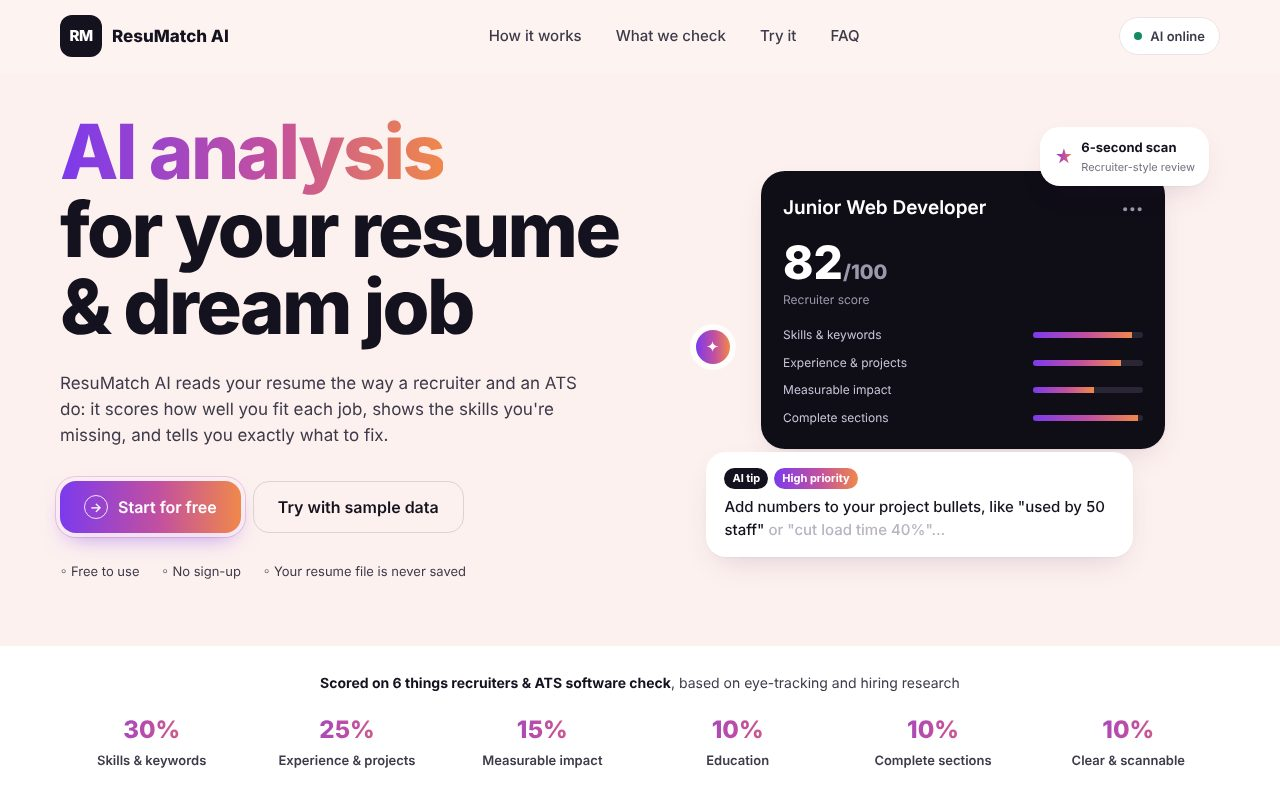
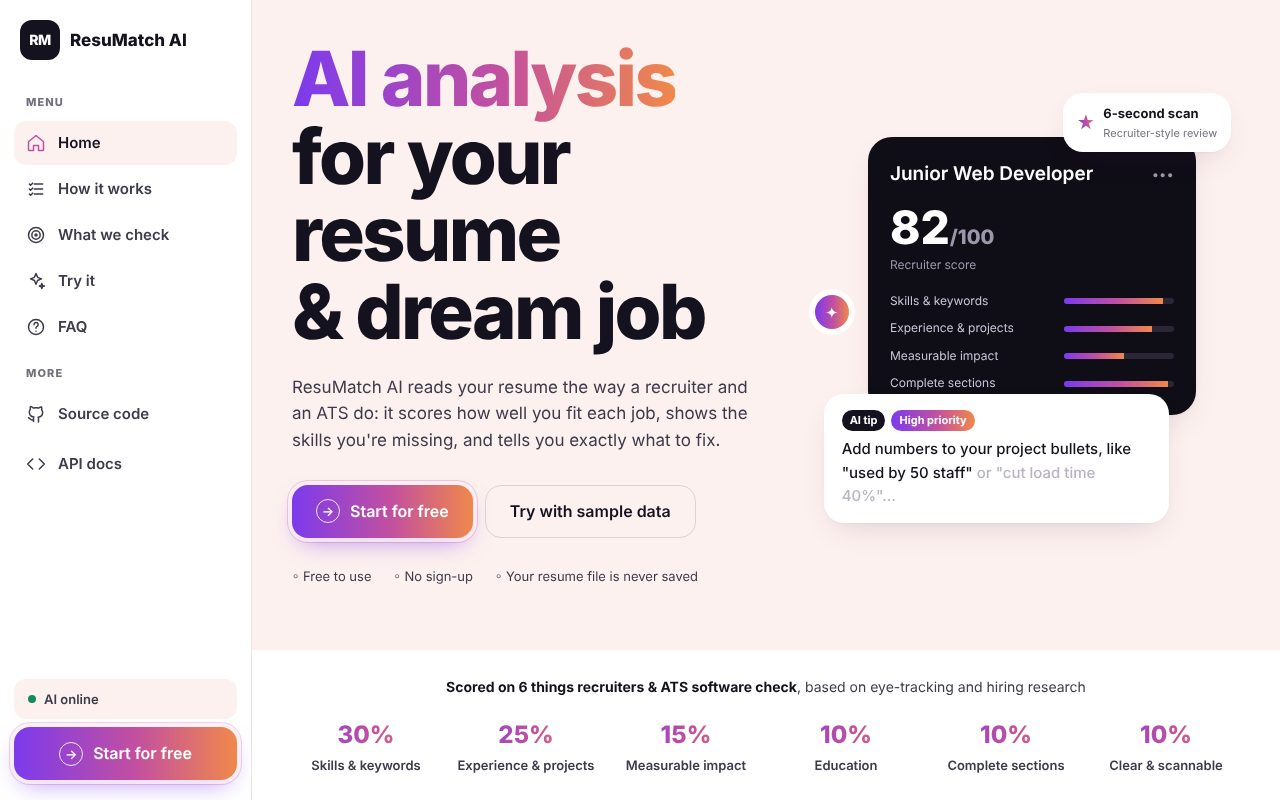
BantayPondo: phone-first menu and project cards; live demo + github links on homepage; refresh project screenshots
Claude-Session: https://claude.ai/code/session_01Py1rjXQRezDS2e9Ywq6cDs

diff --git a/bantaypondo/styles.css b/bantaypondo/styles.css
@@ -35,14 +35,40 @@ a { color: var(--blue); }
 .skip:focus { left: 12px; top: 12px; z-index: 99; background: #fff; padding: 8px 12px; }
 section { margin-block: 88px; }
 
-/* Nav */
-.nav { position: sticky; top: 0; z-index: 1000; background: rgba(255,255,255,.94); backdrop-filter: blur(6px); border-bottom: 1px solid var(--line); }
-.nav-in { display: flex; align-items: center; justify-content: space-between; height: 60px; gap: 16px; }
+/* Menu: sidebar on computers, top bar + slide-in drawer on phones */
+:root { --sb: 248px; }
 .brand { display: flex; align-items: center; gap: 10px; font: 600 18px var(--display); color: var(--ink); text-decoration: none; }
-.nav nav { display: flex; gap: 22px; }
-.nav nav a { color: var(--ink); text-decoration: none; font-size: 15px; }
-.nav nav a:hover { color: var(--blue); }
-@media (max-width: 720px) { .nav nav { display: none; } }
+.ic { width: 20px; height: 20px; flex: none; fill: none; stroke: currentColor; stroke-width: 1.8; stroke-linecap: round; stroke-linejoin: round; }
+.sidebar { position: fixed; inset: 0 auto 0 0; z-index: 1100; width: var(--sb); background: var(--surface); border-right: 1px solid var(--line);
+           display: flex; flex-direction: column; gap: 2px; padding: 18px 12px; overflow-y: auto; transition: transform .25s ease; }
+.sb-head { display: flex; align-items: center; justify-content: space-between; padding: 0 6px 14px; }
+.sb-label { margin: 14px 12px 4px; font: 600 11px var(--display); letter-spacing: .1em; text-transform: uppercase; color: var(--muted); }
+.snav { display: grid; gap: 2px; }
+.snav a, .sb-link { display: flex; align-items: center; gap: 12px; min-height: 44px; padding: 0 12px; border-radius: var(--radius-lg);
+                    color: var(--ink); text-decoration: none; font-size: 15px; }
+.snav a:hover, .sb-link:hover { background: var(--bg); }
+.snav a.active { background: var(--blue-soft); color: var(--blue); font-weight: 600; }
+.sb-link { color: var(--muted); font-size: 14px; }
+.sb-note { margin: auto 6px 0; padding: 12px; border-radius: var(--radius-lg); background: var(--bg); font-size: 13px; color: var(--muted); }
+.icon-btn { width: 44px; height: 44px; display: grid; place-items: center; flex: none; border: 1px solid var(--line); border-radius: 10px;
+            background: var(--surface); color: var(--ink); cursor: pointer; padding: 0; }
+.sb-close, .topbar { display: none; }
+.scrim { position: fixed; inset: 0; z-index: 1090; background: rgba(29, 39, 56, .45); opacity: 0; pointer-events: none; transition: opacity .25s; }
+main, .foot { margin-left: var(--sb); }
+html { scroll-padding-top: calc(var(--nav-h, 0px) + 12px); }
+
+@media (max-width: 1023px) {
+  .sidebar { transform: translateX(-102%); width: min(300px, 86vw); box-shadow: 0 20px 60px -10px rgba(29, 39, 56, .35); }
+  body.menu-open .sidebar { transform: none; }
+  body.menu-open .scrim { opacity: 1; pointer-events: auto; }
+  body.menu-open { overflow: hidden; }
+  .sb-close { display: grid; }
+  main, .foot { margin-left: 0; }
+  .topbar { position: sticky; top: 0; z-index: 1050; display: flex; align-items: center; gap: 12px; height: 62px; padding: 0 14px;
+            background: rgba(255, 255, 255, .95); backdrop-filter: blur(6px); border-bottom: 1px solid var(--line); }
+  .topbar .brand { flex: 1; font-size: 17px; }
+}
+@media (prefers-reduced-motion: reduce) { .sidebar, .scrim { transition: none; } }
 
 /* Hero (template: centered title over a light band, cards overlap the band edge) */
 .hero { margin: 0; padding: 88px 0 140px; background: var(--surface); }
@@ -247,3 +273,30 @@ dialog dd { margin: 0; }
 .info-pop .team p { font-size: 14px; }
 @media (max-width: 640px) { .info-pop { position: fixed; top: 80px; left: 4vw; transform: none; } .info-pop .team { grid-template-columns: 1fr; } }
 @media (prefers-reduced-motion: reduce) { .info-pop { transition: none; } }
+
+
+/* ---------- Phones ---------- */
+@media (max-width: 700px) {
+  .wrap { width: calc(100% - 32px); }
+  /* inputs at 16px stop iPhones from zooming in */
+  input, select, textarea, .filters input[type=search], .filters select { font-size: 16px; }
+  .filters { flex-direction: column; align-items: stretch; }
+  .filters label { flex: 1 1 auto; }
+  .filters .chk { padding: 4px 0 0; min-height: 40px; }
+  /* Project table becomes a list of cards */
+  .table-wrap { background: none; box-shadow: none; overflow: visible; }
+  table, tbody, tr, td { display: block; width: 100%; }
+  thead { display: none; }
+  tbody tr { display: grid; grid-template-columns: auto 1fr; gap: 4px 12px; background: var(--surface); border-radius: var(--radius-lg);
+             box-shadow: var(--lift); padding: 14px; margin-bottom: 12px; }
+  tbody tr:hover { background: var(--surface); }
+  td { border: 0; padding: 0; min-width: 0 !important; }
+  td:first-child { grid-row: span 2; }
+  td.num { text-align: left; }
+  td[data-label]:not(:first-child):not(:nth-child(2))::before { content: attr(data-label); display: block; font: 600 11px var(--display);
+       letter-spacing: .06em; text-transform: uppercase; color: var(--muted); margin-top: 6px; }
+  td:nth-child(n+3) { grid-column: 2; font-size: 15px; }
+  .pname { min-width: 0; }
+  td.empty { grid-column: 1 / -1; }
+  .btn, .ask-form button, .hero-search button { min-height: 44px; }
+}

diff --git a/bantaypondo/index.html b/bantaypondo/index.html
@@ -9,26 +9,42 @@
 <link rel="preconnect" href="https://fonts.gstatic.com" crossorigin>
 <link href="https://fonts.googleapis.com/css2?family=Montserrat:wght@400;500;600;700&family=Source+Sans+3:wght@400;600&display=swap" rel="stylesheet">
 <link rel="stylesheet" href="vendor/leaflet/leaflet.css">
-<link rel="stylesheet" href="styles.css?v=9">
+<link rel="stylesheet" href="styles.css?v=10">
 <link rel="icon" href="logo.svg" type="image/svg+xml">
 </head>
 <body>
 <a class="skip" href="#explore">Skip to projects</a>
 
-<header class="nav">
-  <div class="wrap nav-in">
-    <a class="brand" href="#top" aria-label="BantayPondo home">
-      <img src="logo.svg" width="30" height="30" alt="">
-      BantayPondo
-    </a>
-    <nav aria-label="Main">
-      <a href="#how">How it works</a>
-      <a href="#explore">Projects</a>
-      <a href="#map">Map</a>
-      <a href="#ask">Ask</a>
-      <a href="#sources">Sources</a>
-    </nav>
+<!-- Sidebar menu: always visible on computers, slides in on phones -->
+<aside class="sidebar" id="sidebar" aria-label="Main menu">
+  <div class="sb-head">
+    <a class="brand" href="#top" aria-label="BantayPondo home"><img src="logo.svg" width="30" height="30" alt="">BantayPondo</a>
+    <button class="icon-btn sb-close" id="menuClose" type="button" aria-label="Close menu"><svg class="ic" viewBox="0 0 24 24" aria-hidden="true"><path d="M6 6l12 12M18 6 6 18"/></svg></button>
   </div>
+  <p class="sb-label">Explore</p>
+  <nav class="snav" aria-label="Main">
+    <a href="#top"><svg class="ic" viewBox="0 0 24 24" aria-hidden="true"><path d="M3 10.5 12 3l9 7.5V20a1 1 0 0 1-1 1h-5v-6H9v6H4a1 1 0 0 1-1-1z"/></svg>Home</a>
+    <a href="#how"><svg class="ic" viewBox="0 0 24 24" aria-hidden="true"><path d="M10 6h10M10 12h10M10 18h10M4 6l1.5 1.5L8 5M4 12l1.5 1.5L8 11M4 18l1.5 1.5L8 17"/></svg>How it works</a>
+    <a href="#checks"><svg class="ic" viewBox="0 0 24 24" aria-hidden="true"><path d="M5 21V4"/><path d="M5 4h12l-2 4 2 4H5"/></svg>The checks</a>
+    <a href="#explore"><svg class="ic" viewBox="0 0 24 24" aria-hidden="true"><rect x="3" y="4" width="18" height="16" rx="2"/><path d="M3 9h18M8 9v11"/></svg>Projects</a>
+    <a href="#map"><svg class="ic" viewBox="0 0 24 24" aria-hidden="true"><path d="M9 4 3 6v14l6-2 6 2 6-2V4l-6 2z"/><path d="M9 4v14M15 6v14"/></svg>Map</a>
+    <a href="#contractors"><svg class="ic" viewBox="0 0 24 24" aria-hidden="true"><path d="M3 21h18M5 21V9l7-5 7 5v12M9 21v-6h6v6"/></svg>Contractors</a>
+    <a href="#ask"><svg class="ic" viewBox="0 0 24 24" aria-hidden="true"><path d="M21 12a8 8 0 0 1-11.6 7.1L4 20l1-4.6A8 8 0 1 1 21 12z"/><path d="M8.5 11h7M8.5 14h4"/></svg>Ask BantayPondo</a>
+    <a href="#sources"><svg class="ic" viewBox="0 0 24 24" aria-hidden="true"><path d="M4 6c0-1.7 3.6-3 8-3s8 1.3 8 3-3.6 3-8 3-8-1.3-8-3z"/><path d="M4 6v6c0 1.7 3.6 3 8 3s8-1.3 8-3V6"/><path d="M4 12v6c0 1.7 3.6 3 8 3s8-1.3 8-3v-6"/></svg>Sources</a>
+  </nav>
+  <p class="sb-label">Links</p>
+  <a class="sb-link" href="https://transparency.dpwh.gov.ph/" target="_blank" rel="noopener"><svg class="ic" viewBox="0 0 24 24" aria-hidden="true"><path d="M14 4h6v6M20 4l-9 9M18 14v5a1 1 0 0 1-1 1H5a1 1 0 0 1-1-1V7a1 1 0 0 1 1-1h5"/></svg>DPWH Transparency Portal</a>
+  <a class="sb-link" href="https://github.com/ashweak/bantaypondo" target="_blank" rel="noopener"><svg class="ic" viewBox="0 0 24 24" aria-hidden="true"><path d="M9 19c-4 1.3-4-2-6-2.5m12 5v-3.5c0-1 .1-1.4-.5-2 2.8-.3 5.5-1.4 5.5-6a4.6 4.6 0 0 0-1.3-3.2 4.2 4.2 0 0 0-.1-3.2s-1.1-.3-3.5 1.3a12 12 0 0 0-6.2 0C6.5 2.8 5.4 3.1 5.4 3.1a4.2 4.2 0 0 0-.1 3.2A4.6 4.6 0 0 0 4 9.5c0 4.6 2.7 5.7 5.5 6-.6.6-.6 1.2-.5 2V21"/></svg>Source code</a>
+  <a class="sb-link" href="https://ashweak.github.io" rel="noopener"><svg class="ic" viewBox="0 0 24 24" aria-hidden="true"><circle cx="12" cy="8" r="4"/><path d="M4 21a8 8 0 0 1 16 0"/></svg>Made by Lance Agua</a>
+  <p class="sb-note" id="sbData">Loading data…</p>
+</aside>
+<div class="scrim" id="scrim"></div>
+
+<!-- Phone top bar -->
+<header class="topbar" id="topbar">
+  <button class="icon-btn" id="menuOpen" type="button" aria-label="Open menu" aria-controls="sidebar" aria-expanded="false"><svg class="ic" viewBox="0 0 24 24" aria-hidden="true"><path d="M4 7h16M4 12h16M4 17h16"/></svg></button>
+  <a class="brand" href="#top" aria-label="BantayPondo home"><img src="logo.svg" width="28" height="28" alt="">BantayPondo</a>
+  <a class="icon-btn" href="#explore" aria-label="Search projects"><svg class="ic" viewBox="0 0 24 24" aria-hidden="true"><circle cx="11" cy="11" r="7"/><path d="m20 20-4-4"/></svg></a>
 </header>
 
 <main id="top">
@@ -125,7 +141,7 @@
     </div>
   </section>
 
-  <section class="contractors wrap">
+  <section class="contractors wrap" id="contractors">
     <h2 class="center">Top contractors by contract value</h2>
     <p class="center muted sub">Large totals are not wrong by themselves. Use this with the concentration check.</p>
     <ol class="bars" id="bars"></ol>
@@ -209,6 +225,6 @@
 </dialog>
 
 <script src="vendor/leaflet/leaflet.js"></script>
-<script src="app.js?v=9"></script>
+<script src="app.js?v=10"></script>
 </body>
 </html>

diff --git a/bantaypondo/app.js b/bantaypondo/app.js
@@ -44,6 +44,7 @@ async function load() {
   $("#dataNote").textContent = `${num(S.stats.projects)} DPWH flood control projects · data as of ${asOf}` +
     (official ? ` · ${num(official)} from the official DPWH API` : "") + " · updated weekly";
   $("#genAt").textContent = `Data as of ${asOf}`;
+  $("#sbData").textContent = `${num(S.stats.projects)} projects · data as of ${asOf}. Refreshed weekly.`;
   $("#askMode").textContent = LIVE
     ? "Live mode: AI agents answer using only the stored records."
     : "Demo mode: agents run in your browser using the stored records. Run the backend for Gemini-written answers.";
@@ -130,12 +131,12 @@ function renderRows() {
   const rows = filtered.slice(0, shown);
   $("#rows").innerHTML = rows.length ? rows.map((p) => `
     <tr data-open="${p.id}">
-      <td><span class="score ${scoreClass(p.score)}" title="Risk score">${p.score}</span></td>
-      <td><a class="pname" href="#" data-open="${p.id}">${esc(p.name)}</a><span class="code">${esc(p.code)}</span></td>
-      <td>${esc(town(p.muni))}<br><span class="code">${esc(title(p.prov))}</span></td>
-      <td>${esc(p.contractor)}</td>
-      <td class="num">${peso(p.amount)}</td>
-      <td>${flagTags(p) || '<span class="code">None</span>'}</td>
+      <td data-label="Risk"><span class="score ${scoreClass(p.score)}" title="Risk score">${p.score}</span></td>
+      <td data-label="Project"><a class="pname" href="#" data-open="${p.id}">${esc(p.name)}</a><span class="code">${esc(p.code)}</span></td>
+      <td data-label="Location">${esc(town(p.muni))}<br><span class="code">${esc(title(p.prov))}</span></td>
+      <td data-label="Contractor">${esc(p.contractor)}</td>
+      <td class="num" data-label="Contract cost">${peso(p.amount)}</td>
+      <td data-label="Flags">${flagTags(p) || '<span class="code">None</span>'}</td>
     </tr>`).join("") : `<tr><td colspan="6" class="empty">No projects match. Try another town, or untick "Flagged only".</td></tr>`;
   $("#more").hidden = filtered.length <= shown;
 }
@@ -317,3 +318,38 @@ document.addEventListener("click", (e) => { if (!info.contains(e.target)) setInf
 document.addEventListener("keydown", (e) => { if (e.key === "Escape") setInfo(false); });
 
 load().catch(() => { $("#dataNote").textContent = "Project data could not load. Refresh the page to try again."; });
+
+
+/* ---------- Menu: sidebar on computers, slide-in drawer on phones ---------- */
+(() => {
+  const body = document.body, topbar = document.getElementById("topbar");
+  const openBtn = document.getElementById("menuOpen"), closeBtn = document.getElementById("menuClose");
+  const setMenu = (open) => {
+    body.classList.toggle("menu-open", open);
+    openBtn.setAttribute("aria-expanded", open);
+    if (open) closeBtn.focus();
+  };
+  openBtn.addEventListener("click", () => setMenu(true));
+  closeBtn.addEventListener("click", () => setMenu(false));
+  document.getElementById("scrim").addEventListener("click", () => setMenu(false));
+  document.addEventListener("keydown", (e) => { if (e.key === "Escape") setMenu(false); });
+  document.querySelectorAll("#sidebar a[href^='#']").forEach((a) => a.addEventListener("click", () => setMenu(false)));
+
+  // Sections stop just below the top bar on phones (no top bar on computers).
+  const setBar = () => document.documentElement.style.setProperty("--nav-h", topbar.offsetHeight + "px");
+  addEventListener("resize", () => { setBar(); if (innerWidth >= 1024) setMenu(false); });
+  setBar();
+
+  // Highlight the section on screen.
+  const links = [...document.querySelectorAll(".snav a")];
+  const secs = links.map((a) => document.querySelector(a.getAttribute("href")));
+  const mark = () => {
+    const y = scrollY + topbar.offsetHeight + 40;
+    let cur = 0;
+    secs.forEach((sec, i) => { if (sec && sec.getBoundingClientRect().top + scrollY <= y) cur = i; });
+    if (innerHeight + scrollY >= document.body.scrollHeight - 4) cur = secs.length - 1;
+    links.forEach((a, i) => a.classList.toggle("active", i === cur));
+  };
+  addEventListener("scroll", mark, { passive: true });
+  mark();
+})();

diff --git a/index.html b/index.html
@@ -212,7 +212,8 @@ main [style*="background: var(--c121212)"]:hover{border-color:var(--c3a3a3a)}
 <div style="display: flex; justify-content: space-between; gap: 12px"><h3 style="margin: 0; font-size: 18px; font-weight: 400; color: var(--ce0e0e0)">BantayPondo</h3><a href="bantaypondo/" aria-label="Open BantayPondo live demo">↗</a></div>
 <p style="margin: 0; color: var(--ca3a3a3)">AI agent watchdog that flags 9,855 DPWH flood control projects for review, with every finding linked to its source.</p>
 <div style="display: flex; flex-wrap: wrap; gap: 6px"><span style="background: var(--c262626); padding: 0 7px; border-radius: 3px; font-size: 13px; color: var(--ccfcfcf)">Python</span><span style="background: var(--c262626); padding: 0 7px; border-radius: 3px; font-size: 13px; color: var(--ccfcfcf)">FastAPI</span><span style="background: var(--c262626); padding: 0 7px; border-radius: 3px; font-size: 13px; color: var(--ccfcfcf)">LangGraph</span><span style="background: var(--c262626); padding: 0 7px; border-radius: 3px; font-size: 13px; color: var(--ccfcfcf)">Gemini AI</span></div>
-</div>
+
+<div style="display: flex; gap: 16px; font-size: 14px"><a href="bantaypondo/">live demo ↗</a><a href="https://github.com/ashweak/bantaypondo" target="_blank" rel="noopener">github ↗</a></div></div>
 </article>
 
 <article style="display: flex; gap: 16px; padding: 14px 0; border-top: 1px solid var(--c2e2e2e)">
@@ -221,7 +222,8 @@ main [style*="background: var(--c121212)"]:hover{border-color:var(--c3a3a3a)}
 <div style="display: flex; justify-content: space-between; gap: 12px"><h3 style="margin: 0; font-size: 18px; font-weight: 400; color: var(--ce0e0e0)">ResuMatch AI</h3><a href="https://github.com/ashweak/ai-resume-matcher" aria-label="Open ResuMatch AI on GitHub" target="_blank" rel="noopener">↗</a></div>
 <p style="margin: 0; color: var(--ca3a3a3)">AI app that ranks jobs for a resume and scores it like a recruiter.</p>
 <div style="display: flex; flex-wrap: wrap; gap: 6px"><span style="background: var(--c262626); padding: 0 7px; border-radius: 3px; font-size: 13px; color: var(--ccfcfcf)">Python</span><span style="background: var(--c262626); padding: 0 7px; border-radius: 3px; font-size: 13px; color: var(--ccfcfcf)">FastAPI</span><span style="background: var(--c262626); padding: 0 7px; border-radius: 3px; font-size: 13px; color: var(--ccfcfcf)">Gemini AI</span></div>
-</div>
+
+<div style="display: flex; gap: 16px; font-size: 14px"><a href="https://github.com/ashweak/ai-resume-matcher" target="_blank" rel="noopener">github ↗</a></div></div>
 </article>
 
 <article style="display: flex; gap: 16px; padding: 14px 0; border-top: 1px solid var(--c2e2e2e)">
